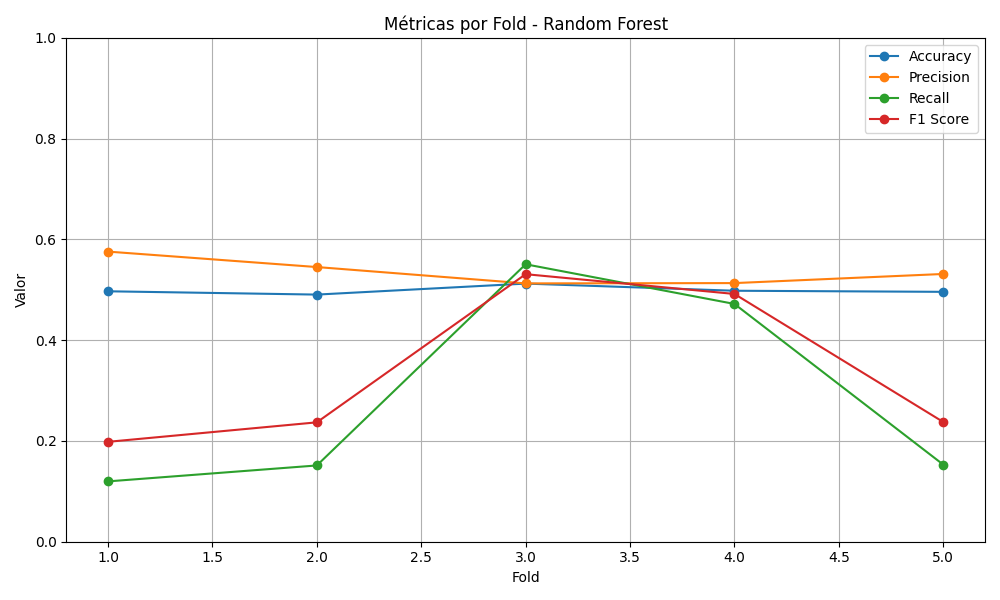
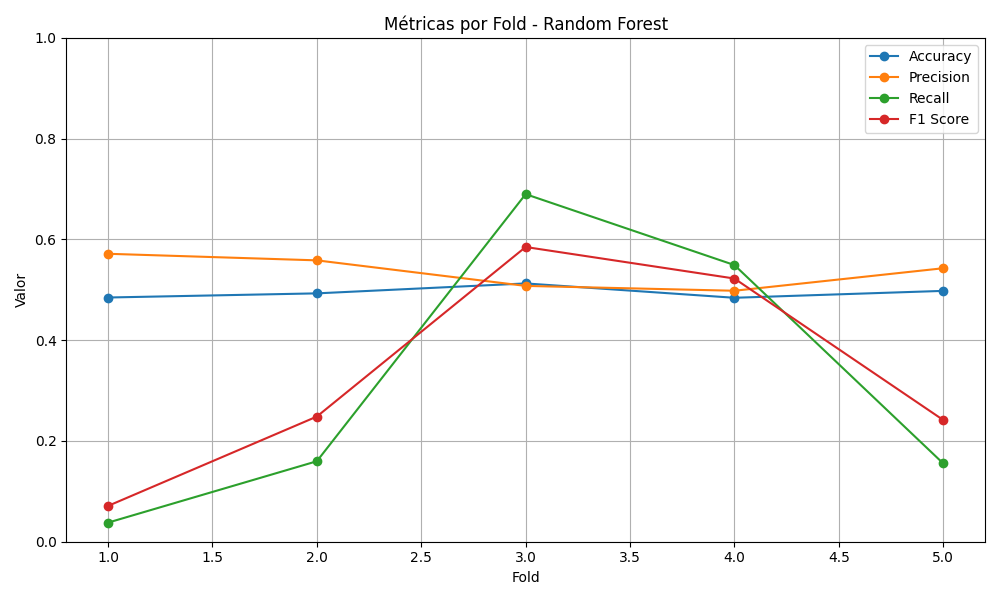
alteracao trainamentos

diff --git a/src/train_classification.py b/src/train_classification.py
@@ -1,16 +1,23 @@
 import pandas as pd
-from sklearn.linear_model import LogisticRegression
-from sklearn.model_selection import TimeSeriesSplit
-from sklearn.metrics import accuracy_score, precision_score, recall_score, f1_score, classification_report, confusion_matrix, ConfusionMatrixDisplay
 import numpy as np
 import json
 import matplotlib.pyplot as plt
+from sklearn.linear_model import LogisticRegression
+from sklearn.model_selection import TimeSeriesSplit
+from sklearn.metrics import (
+    accuracy_score, precision_score, recall_score, f1_score,
+    classification_report, confusion_matrix, ConfusionMatrixDisplay
+)
 
-# Carregar os dados padronizados
 input_file = 'outputs/binance_data_scaled.csv'
-df_scaled = pd.read_csv(input_file, index_col='time', parse_dates=True)
-
 log_file = 'outputs/modeling_log.txt'
+results_file = 'outputs/classification_results.json'
+confusion_matrix_img = 'outputs/confusion_matrix_logistic.png'
+
+# === CARREGAR DADOS ===
+df = pd.read_csv(input_file, index_col='time', parse_dates=True)
+
+# === LOG INICIAL ===
 try:
     with open(log_file, 'r') as f:
         modeling_log = f.read().splitlines()
@@ -19,33 +26,27 @@ except FileNotFoundError:
 
 modeling_log.append('\n--- Modelagem: Regressão Logística com TimeSeriesSplit (Previsão de Direção) ---')
 
-# Criar variável alvo binária
-df_scaled['price_change'] = df_scaled['close'].diff()
-df_scaled['target_direction'] = np.where(df_scaled['price_change'].shift(-1) > 0, 1, 0)
-df_scaled.dropna(subset=['target_direction'], inplace=True)
-df_scaled.drop(columns=['price_change'], inplace=True)
+# === CRIAR VARIÁVEL ALVO ===
+df['price_change'] = df['close'].diff()
+df['target_direction'] = np.where(df['price_change'].shift(-1) > 0, 1, 0)
+df.dropna(subset=['target_direction'], inplace=True)
+df.drop(columns=['price_change'], inplace=True)
 
-# Separar features e alvo
-if 'target_close' in df_scaled.columns:
-    X = df_scaled.drop(['target_direction', 'target_close'], axis=1)
-else:
-    X = df_scaled.drop('target_direction', axis=1)
-print(X.head())    
+# === DEFINIR FEATURES E TARGET ===
+X = df.drop(columns=['target_direction', 'target_close'], errors='ignore')
+y = df['target_direction']
 
-y = df_scaled['target_direction']
-print(y.head()) 
-exit()
-modeling_log.append("- Variável Alvo (y): 'target_direction'")
-modeling_log.append(f"- Features (X): {len(X.columns)} colunas")
+modeling_log.append("- Variável Alvo: 'target_direction'")
+modeling_log.append(f"- Total de features: {X.shape[1]}")
 
-# TimeSeriesSplit
+# === TIME SERIES SPLIT ===
 tscv = TimeSeriesSplit(n_splits=5)
 accuracies, precisions, recalls, f1s = [], [], [], []
 all_y_test, all_y_pred = [], []
 
-for fold, (train_index, test_index) in enumerate(tscv.split(X)):
-    X_train, X_test = X.iloc[train_index], X.iloc[test_index]
-    y_train, y_test = y.iloc[train_index], y.iloc[test_index]
+for fold, (train_idx, test_idx) in enumerate(tscv.split(X)):
+    X_train, X_test = X.iloc[train_idx], X.iloc[test_idx]
+    y_train, y_test = y.iloc[train_idx], y.iloc[test_idx]
 
     model = LogisticRegression(random_state=42, max_iter=1000)
     model.fit(X_train, y_train)
@@ -65,7 +66,7 @@ for fold, (train_index, test_index) in enumerate(tscv.split(X)):
     all_y_test.extend(y_test)
     all_y_pred.extend(y_pred)
 
-# Avaliação final
+# === MÉTRICAS FINAIS ===
 avg_metrics = {
     'accuracy': np.mean(accuracies),
     'precision': np.mean(precisions),
@@ -73,33 +74,36 @@ avg_metrics = {
     'f1_score': np.mean(f1s)
 }
 report = classification_report(all_y_test, all_y_pred)
+
 modeling_log.append("\n--- Média dos Folds ---")
 for k, v in avg_metrics.items():
     modeling_log.append(f"- {k.capitalize()}: {v:.4f}")
 modeling_log.append("Relatório de Classificação Geral:")
 modeling_log.extend([f"  {line}" for line in report.splitlines()])
 
-# Matriz de confusão
+# === MATRIZ DE CONFUSÃO ===
 cm = confusion_matrix(all_y_test, all_y_pred)
 disp = ConfusionMatrixDisplay(confusion_matrix=cm, display_labels=model.classes_)
 disp.plot(cmap=plt.cm.Blues)
-plt.title("Matriz de Confusão - TimeSeriesSplit")
+plt.title("Matriz de Confusão - Regressão Logística")
 plt.tight_layout()
-plt.savefig('outputs/confusion_matrix_logistic.png')
+plt.savefig(confusion_matrix_img)
 plt.show()
-modeling_log.append("- Matriz de confusão salva em 'outputs/confusion_matrix_logistic.png'.")
 
-# Salvar resultados
+modeling_log.append(f"- Matriz de confusão salva em '{confusion_matrix_img}'.")
+
+# === SALVAR RESULTADOS ===
 results = {
     'model_type': 'Logistic Regression (TimeSeriesSplit)',
     'target': 'target_direction',
     'metrics': avg_metrics,
     'classification_report': report
 }
-with open('outputs/classification_results.json', 'w') as f:
+
+with open(results_file, 'w') as f:
     json.dump(results, f, indent=4)
 
 with open(log_file, 'w') as f:
     f.write('\n'.join(modeling_log))
 
-print("Modelo treinado com TimeSeriesSplit. Resultados e log salvos com sucesso.")
+print("✅ Modelo treinado e avaliado com sucesso. Resultados salvos.")

diff --git a/src/train_random_forest.py b/src/train_random_forest.py
@@ -9,33 +9,29 @@ from sklearn.metrics import (
     classification_report, confusion_matrix, ConfusionMatrixDisplay
 )
 
-# Carregar os dados brutos (não padronizados)
-df_raw = pd.read_excel('data/binance_data_6h.xlsx', index_col='time', parse_dates=True)
+# === Carregar dados padronizados ===
+df_scaled = pd.read_csv('outputs/binance_data_scaled.csv', index_col='time', parse_dates=True)
 
 # Criar variável alvo binária
-df_raw['price_change'] = df_raw['close'].diff()
-df_raw['target_direction'] = np.where(df_raw['price_change'].shift(-1) > 0, 1, 0)
-df_raw.dropna(subset=['target_direction'], inplace=True)
-df_raw.drop(columns=['price_change'], inplace=True)
+df_scaled['price_change'] = df_scaled['close'].diff()
+df_scaled['target_direction'] = np.where(df_scaled['price_change'].shift(-1) > 0, 1, 0)
+df_scaled.dropna(subset=['target_direction'], inplace=True)
+df_scaled.drop(columns=['price_change'], inplace=True)
 
 # Separar features e target
-X = df_raw.drop(columns=['target_direction', 'target_close'], errors='ignore')
-y = df_raw['target_direction']
+X = df_scaled.drop(columns=['target_direction', 'target_close'], errors='ignore')
+y = df_scaled['target_direction']
 
-# Log
+# === Log inicial ===
 modeling_log = []
 modeling_log.append('--- Modelagem: Random Forest com TimeSeriesSplit ---')
-modeling_log.append(f"- Total de observações: {len(df_raw)}")
+modeling_log.append(f"- Total de observações: {len(df_scaled)}")
 modeling_log.append(f"- Features: {len(X.columns)} colunas")
 
-# Configurar TimeSeriesSplit
+# === Configurar TimeSeriesSplit ===
 tscv = TimeSeriesSplit(n_splits=5)
 results_by_fold = []
-
-# Para armazenar previsões do último fold 
-final_y_test = None
-final_y_pred = None
-feature_importances = None
+final_y_test, final_y_pred, feature_importances = None, None, None
 
 for fold, (train_index, test_index) in enumerate(tscv.split(X)):
     X_train, X_test = X.iloc[train_index], X.iloc[test_index]
@@ -60,40 +56,40 @@ for fold, (train_index, test_index) in enumerate(tscv.split(X)):
 
     modeling_log.append(f"- Fold {fold+1}: Accuracy={acc:.4f}, Precision={prec:.4f}, Recall={rec:.4f}, F1={f1:.4f}")
 
-    # Guardar último fold para visualização
     final_y_test = y_test
     final_y_pred = y_pred
     feature_importances = model.feature_importances_
 
-# Importância das variáveis
-modeling_log.append("\n- Importância das Variáveis:")
-for name, score in zip(X.columns, feature_importances):
-    modeling_log.append(f"  - {name}: {score:.4f}")
+# === Importância das Variáveis (ordenada) ===
+importances = pd.Series(feature_importances, index=X.columns)
+importances_sorted = importances.sort_values(ascending=False)
+modeling_log.append("\n- Importância das Variáveis (ordenadas):")
+for feature, importance in importances_sorted.items():
+    modeling_log.append(f"  - {feature}: {importance:.4f}")
 
-# Calcular médias
+# === Cálculo de Métricas Médias ===
 metrics_avg = {
     'accuracy': np.mean([r['accuracy'] for r in results_by_fold]),
     'precision': np.mean([r['precision'] for r in results_by_fold]),
     'recall': np.mean([r['recall'] for r in results_by_fold]),
     'f1_score': np.mean([r['f1_score'] for r in results_by_fold])
 }
-
 modeling_log.append("\n- Média das métricas nos folds:")
 for k, v in metrics_avg.items():
     modeling_log.append(f"  - {k}: {v:.4f}")
 
-# Salvar resultados
+# === Salvar resultados em JSON ===
 results = {
     'model_type': 'Random Forest Classifier (TimeSeriesSplit)',
     'target': 'target_direction',
     'metrics_average': metrics_avg,
     'folds': results_by_fold,
-    'feature_importance': dict(zip(X.columns, feature_importances))
+    'feature_importance': importances_sorted.to_dict()
 }
 with open('outputs/random_forest_timeseries_results.json', 'w') as f:
     json.dump(results, f, indent=4)
 
-# Salvar log
+# === Salvar log ===
 with open('outputs/modeling_log.txt', 'a') as f:
     f.write('\n'.join(modeling_log) + '\n')
 
@@ -101,7 +97,7 @@ with open('outputs/modeling_log.txt', 'a') as f:
 
 # 1. Gráfico de métricas por fold
 folds = [r['fold'] for r in results_by_fold]
-plt.figure(figsize=(10,6))
+plt.figure(figsize=(10, 6))
 plt.plot(folds, [r['accuracy'] for r in results_by_fold], marker='o', label='Accuracy')
 plt.plot(folds, [r['precision'] for r in results_by_fold], marker='o', label='Precision')
 plt.plot(folds, [r['recall'] for r in results_by_fold], marker='o', label='Recall')
@@ -116,7 +112,7 @@ plt.tight_layout()
 plt.savefig('outputs/random_forest_folds_metrics.png')
 plt.show()
 
-# 2. Matriz de confusão do último fold
+# 2. Matriz de confusão
 cm = confusion_matrix(final_y_test, final_y_pred)
 disp = ConfusionMatrixDisplay(confusion_matrix=cm, display_labels=model.classes_)
 disp.plot(cmap=plt.cm.Blues)
@@ -125,4 +121,4 @@ plt.tight_layout()
 plt.savefig('outputs/random_forest_confusion_matrix.png')
 plt.show()
 
-print("Resultados salvos com sucesso.")
+print("Modelo Random Forest treinado. Resultados, métricas, gráficos e importância das features salvos com sucesso.")

diff --git a/src/train_regression.py b/src/train_regression.py
@@ -1,32 +1,32 @@
 import pandas as pd
-from sklearn.linear_model import LinearRegression
-from sklearn.model_selection import TimeSeriesSplit
-from sklearn.metrics import mean_squared_error, r2_score
 import numpy as np
 import json
 import matplotlib.pyplot as plt
+from sklearn.linear_model import LinearRegression
+from sklearn.model_selection import TimeSeriesSplit
+from sklearn.metrics import mean_squared_error, mean_absolute_error, r2_score
 
-# Carregar dados
+# === Carregamento dos Dados ===
 df_scaled = pd.read_csv('outputs/binance_data_scaled.csv', index_col='time', parse_dates=True)
 
+# === Log de Modelagem ===
 modeling_log = []
-modeling_log.append('--- Modelagem: Regressão Linear com TimeSeriesSplit ---')
+modeling_log.append('--- Modelagem: Regressão Linear ---')
 
-# Criar variável alvo (prever o close do próximo período)
+# === Preparação da Variável Alvo ===
 df_scaled['target_close'] = df_scaled['close'].shift(-1)
 df_scaled.dropna(subset=['target_close'], inplace=True)
 
-X = df_scaled.drop('target_close', axis=1)
+X = df_scaled.drop(columns=['target_close'], errors='ignore')
 y = df_scaled['target_close']
 
-# TimeSeriesSplit
-tscv = TimeSeriesSplit(n_splits=5)
-rmse_list = []
-r2_list = []
+modeling_log.append(f"- Total de observações: {len(df_scaled)}")
+modeling_log.append(f"- Features utilizadas: {len(X.columns)}")
 
-# Para gráficos e análise
-all_real = []
-all_pred = []
+# === TimeSeriesSplit ===
+tscv = TimeSeriesSplit(n_splits=5)
+rmse_list, mae_list, mse_list, r2_list = [], [], [], []
+all_real, all_pred = [], []
 
 for fold, (train_index, test_index) in enumerate(tscv.split(X)):
     X_train, X_test = X.iloc[train_index], X.iloc[test_index]
@@ -36,41 +36,54 @@ for fold, (train_index, test_index) in enumerate(tscv.split(X)):
     model.fit(X_train, y_train)
     y_pred = model.predict(X_test)
 
-    rmse = np.sqrt(mean_squared_error(y_test, y_pred))
+    mse = mean_squared_error(y_test, y_pred)
+    rmse = np.sqrt(mse)
+    mae = mean_absolute_error(y_test, y_pred)
     r2 = r2_score(y_test, y_pred)
 
+    mse_list.append(mse)
     rmse_list.append(rmse)
+    mae_list.append(mae)
     r2_list.append(r2)
 
-    modeling_log.append(f"- Fold {fold+1}: RMSE={rmse:.4f}, R²={r2:.4f}")
+    modeling_log.append(f"- Fold {fold+1}: MSE={mse:.6f}, RMSE={rmse:.4f}, MAE={mae:.4f}, R²={r2:.4f}")
 
     all_real.extend(y_test.values)
     all_pred.extend(y_pred)
 
-# Resultados médios
+# === Resultados Médios ===
+avg_mse = np.mean(mse_list)
 avg_rmse = np.mean(rmse_list)
+avg_mae = np.mean(mae_list)
 avg_r2 = np.mean(r2_list)
+
+modeling_log.append(f"- Média dos Folds: MSE={avg_mse:.6f}, RMSE={avg_rmse:.4f}, MAE={avg_mae:.4f}, R²={avg_r2:.4f}")
 
 results = {
     'model_type': 'Linear Regression (TimeSeriesSplit)',
     'target': 'target_close',
     'metrics': {
+        'average_mse': avg_mse,
         'average_rmse': avg_rmse,
+        'average_mae': avg_mae,
         'average_r2': avg_r2,
-        'folds': [{'rmse': r, 'r2': s} for r, s in zip(rmse_list, r2_list)]
+        'folds': [
+            {'mse': m, 'rmse': r, 'mae': a, 'r2': s}
+            for m, r, a, s in zip(mse_list, rmse_list, mae_list, r2_list)
+        ]
     }
 }
 
+# === Salvamento dos Resultados ===
 with open('outputs/regression_results.json', 'w') as f:
     json.dump(results, f, indent=4)
 
-modeling_log.append(f"- Média dos Folds: RMSE={avg_rmse:.4f}, R²={avg_r2:.4f}")
-modeling_log.append("- Resultados salvos em 'regression_results.json'.")
+modeling_log.append("- Resultados salvos em 'outputs/regression_results.json'.")
 
 with open('outputs/modeling_log.txt', 'a') as f:
     f.write('\n'.join(modeling_log) + '\n')
 
-# Gráfico: Real vs Previsto (todos os folds)
+# === Gráfico 1: Real vs Previsto ===
 plt.figure(figsize=(12, 6))
 plt.plot(all_real, label='Real', alpha=0.7)
 plt.plot(all_pred, label='Previsto', alpha=0.7)
@@ -83,13 +96,12 @@ plt.tight_layout()
 plt.savefig('outputs/regression_all_folds_comparison.png')
 plt.show()
 
-# --- Gráfico de Acertos e Erros ---
+# === Gráfico 2: Acertos e Erros ===
 erro_absoluto = np.abs(np.array(all_real) - np.array(all_pred))
-limite = 0.03 
+limite = 0.03
 acertos = np.sum(erro_absoluto <= limite)
 erros = np.sum(erro_absoluto > limite)
 
-# Exibir gráfico de barras
 plt.figure(figsize=(6, 5))
 plt.bar(['Acertos', 'Erros'], [acertos, erros], color=['green', 'red'])
 plt.title(f'Nº de Acertos vs Erros (Margem ±{limite})')
@@ -98,3 +110,5 @@ plt.grid(axis='y')
 plt.tight_layout()
 plt.savefig('outputs/regression_accuracy_bar.png')
 plt.show()
+
+print("Modelo treinado. Resultados e gráficos salvos com sucesso.")
